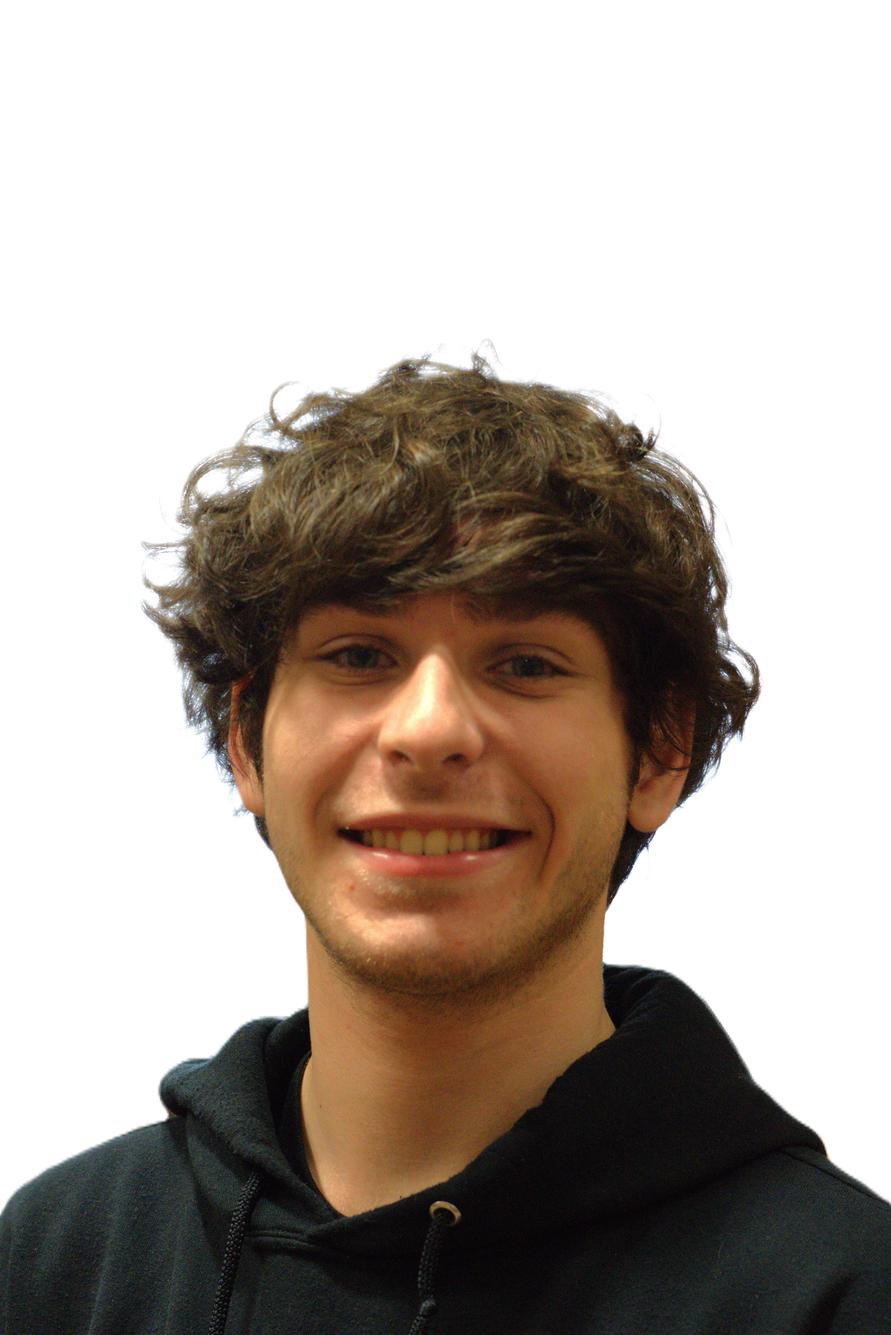
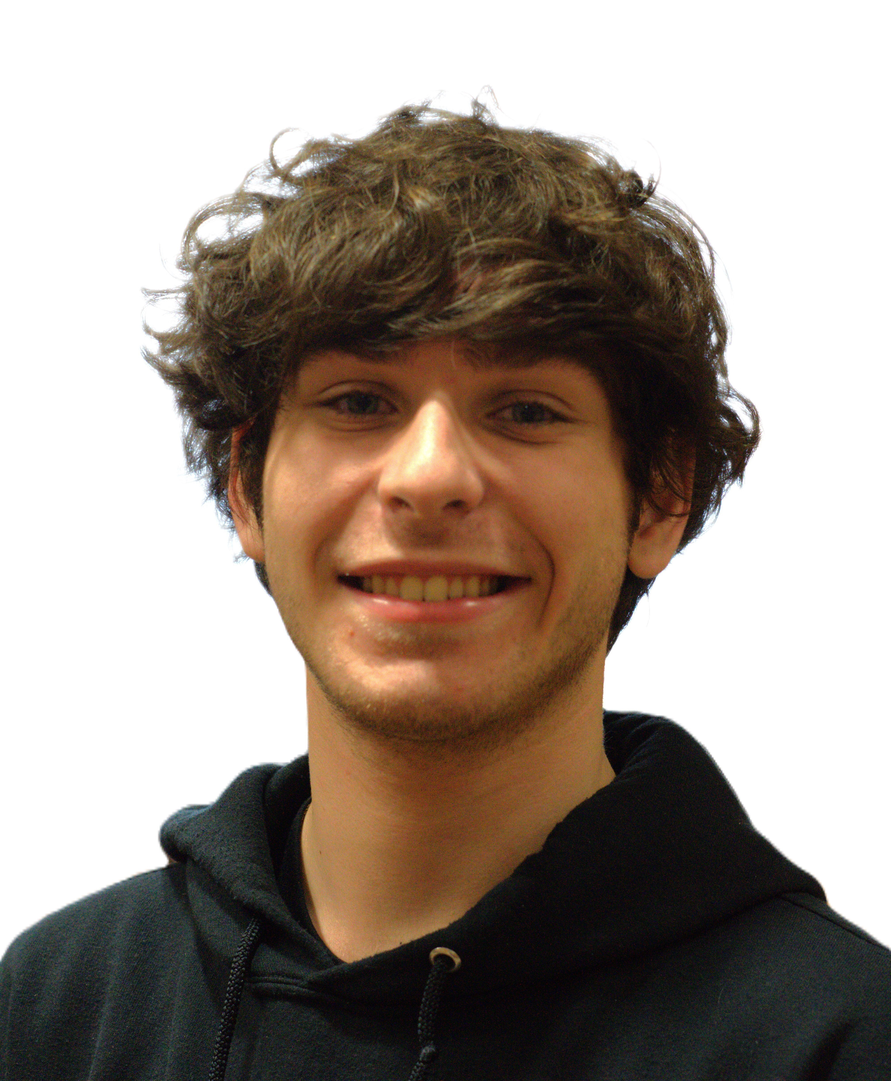
style: shrunk down cards and developer photos

diff --git a/apps/frontend/src/routes/AboutPage.tsx b/apps/frontend/src/routes/AboutPage.tsx
@@ -40,7 +40,7 @@ export default function AboutPage() {
               <img
                 src={"/Wong.jpg"}
                 alt="Wilson Wong"
-                className="w-[200px] h-[200px] mb-2 rounded-lg"
+                className="w-[300px] h-[300px] mb-2 rounded-lg"
               />
               <div className="h-8 flex-col justify-center items-center content-center text-center">
                 <p>Course Professor</p>
@@ -59,7 +59,7 @@ export default function AboutPage() {
               <img
                 src={"/Ian.jpg"}
                 alt="Ian Wright"
-                className="w-[200px] h-[200px] mb-2 rounded-lg"
+                className="w-[300px] h-[300px] mb-2 rounded-lg"
               />
               <div className="h-8 flex-col justify-center items-center content-center text-center">
                 <p>Team Coach</p>
@@ -69,11 +69,13 @@ export default function AboutPage() {
         </div>
       </div>
       <div className="flex flex-wrap justify-center gap-16 mb-6">
-        <div className="w-1/4">
+        <div className="w-[325px]">
           <Card className="h-full bg-slate-100 drop-shadow-md shadow-inner backdrop-blur-md flex-1 flex flex-col border-0">
             <CardHeader className="bg-[#9AC4FF] py-5 mb-8 rounded-t-lg">
               <CardTitle className="capitalize text-center">
-                Thomas Beattie (Ace)
+                <div className="h-8 flex-col justify-center items-center content-center text-center">
+                  <p>Thomas Beattie (Ace)</p>
+                </div>
               </CardTitle>
             </CardHeader>
             <CardContent className="flex-1 flex flex-col justify-center items-center gap-2">
@@ -84,11 +86,13 @@ export default function AboutPage() {
             </CardContent>
           </Card>
         </div>
-        <div className="w-1/4">
+        <div className="w-[325px]">
           <Card className="h-full bg-slate-100 drop-shadow-md shadow-inner backdrop-blur-md flex-1 flex flex-col border-0">
             <CardHeader className="bg-[#9AC4FF] py-5 mb-8 rounded-t-lg">
               <CardTitle className="capitalize text-center">
-                Matthew Franco
+                <div className="h-8 flex-col justify-center items-center content-center text-center">
+                  <p>Matthew Franco</p>
+                </div>
               </CardTitle>
             </CardHeader>
             <CardContent className="flex-1 flex flex-col justify-center items-center gap-2">
@@ -104,16 +108,18 @@ export default function AboutPage() {
             </CardContent>
           </Card>
         </div>
-        <div className="w-1/4">
+        <div className="w-[325px]">
           <Card className="h-full bg-slate-100 drop-shadow-md shadow-inner backdrop-blur-md flex-1 flex flex-col border-0">
             <CardHeader className="bg-[#9AC4FF] py-5 mb-8 rounded-t-lg">
               <CardTitle className="capitalize text-center">
-                Santiago Giraldo Godoy
+                <div className="h-8 flex-col justify-center items-center content-center text-center">
+                  <p>Santiago Giraldo Godoy</p>
+                </div>
               </CardTitle>
             </CardHeader>
             <CardContent className="flex-1 flex flex-col justify-center items-center gap-2">
               <img
-                src={"/Santiago.jpg"}
+                src={"/Santiago.png"}
                 alt="Santiago"
                 className="mb-2 rounded-lg"
               />
@@ -124,11 +130,13 @@ export default function AboutPage() {
             </CardContent>
           </Card>
         </div>
-        <div className="w-1/4">
+        <div className="w-[325px]">
           <Card className="h-full bg-slate-100 drop-shadow-md shadow-inner backdrop-blur-md flex-1 flex flex-col border-0">
             <CardHeader className="bg-[#9AC4FF] py-5 mb-8 rounded-t-lg">
               <CardTitle className="capitalize text-center">
-                Parker Glispin
+                <div className="h-8 flex-col justify-center items-center content-center text-center">
+                  <p>Parker Glispin</p>
+                </div>
               </CardTitle>
             </CardHeader>
             <CardContent className="flex-1 flex flex-col justify-center items-center gap-2">
@@ -144,11 +152,13 @@ export default function AboutPage() {
             </CardContent>
           </Card>
         </div>
-        <div className="w-1/4">
+        <div className="w-[325px]">
           <Card className="h-full bg-slate-100 drop-shadow-md shadow-inner backdrop-blur-md flex-1 flex flex-col border-0">
             <CardHeader className="bg-[#9AC4FF] py-5 mb-8 rounded-t-lg">
               <CardTitle className="capitalize text-center">
-                Michael Lin
+                <div className="h-8 flex-col justify-center items-center content-center text-center">
+                  <p>Michael Lin</p>
+                </div>
               </CardTitle>
             </CardHeader>
             <CardContent className="flex-1 flex flex-col justify-center items-center gap-2">
@@ -163,11 +173,13 @@ export default function AboutPage() {
             </CardContent>
           </Card>
         </div>
-        <div className="w-1/4">
+        <div className="w-[325px]">
           <Card className="h-full bg-slate-100 drop-shadow-md shadow-inner backdrop-blur-md flex-1 flex flex-col border-0">
             <CardHeader className="bg-[#9AC4FF] py-5 mb-8 rounded-t-lg">
               <CardTitle className="capitalize text-center">
-                Kevin McCrudden
+                <div className="h-8 flex-col justify-center items-center content-center text-center">
+                  <p>Kevin McCrudden</p>
+                </div>
               </CardTitle>
             </CardHeader>
             <CardContent className="flex-1 flex flex-col justify-center items-center gap-2">
@@ -179,11 +191,13 @@ export default function AboutPage() {
             </CardContent>
           </Card>
         </div>
-        <div className="w-1/4">
+        <div className="w-[325px]">
           <Card className="h-full bg-slate-100 drop-shadow-md shadow-inner backdrop-blur-md flex-1 flex flex-col border-0">
             <CardHeader className="bg-[#9AC4FF] py-5 mb-8 rounded-t-lg">
               <CardTitle className="capitalize text-center">
-                Keenan Porter
+                <div className="h-8 flex-col justify-center items-center content-center text-center">
+                  <p>Keenan Porter</p>
+                </div>
               </CardTitle>
             </CardHeader>
             <CardContent className="flex-1 flex flex-col justify-center items-center gap-2">
@@ -199,11 +213,13 @@ export default function AboutPage() {
             </CardContent>
           </Card>
         </div>
-        <div className="w-1/4">
+        <div className="w-[325px]">
           <Card className="h-full bg-slate-100 drop-shadow-md shadow-inner backdrop-blur-md flex-1 flex flex-col border-0">
             <CardHeader className="bg-[#9AC4FF] py-5 mb-8 rounded-t-lg">
               <CardTitle className="capitalize text-center">
-                Daniel Reynolds
+                <div className="h-8 flex-col justify-center items-center content-center text-center">
+                  <p>Daniel Reynolds</p>
+                </div>
               </CardTitle>
             </CardHeader>
             <CardContent className="flex-1 flex flex-col justify-center items-center gap-2">
@@ -218,11 +234,13 @@ export default function AboutPage() {
             </CardContent>
           </Card>
         </div>
-        <div className="w-1/4">
+        <div className="w-[325px]">
           <Card className="h-full bg-slate-100 drop-shadow-md shadow-inner backdrop-blur-md flex-1 flex flex-col border-0">
             <CardHeader className="bg-[#9AC4FF] py-5 mb-8 rounded-t-lg">
               <CardTitle className="capitalize text-center">
-                Cole Welcher
+                <div className="h-8 flex-col justify-center items-center content-center text-center">
+                  <p>Cole Welcher</p>
+                </div>
               </CardTitle>
             </CardHeader>
             <CardContent className="flex-1 flex flex-col justify-center items-center gap-2">
@@ -234,11 +252,13 @@ export default function AboutPage() {
             </CardContent>
           </Card>
         </div>
-        <div className="w-1/4">
+        <div className="w-[325px]">
           <Card className="h-full bg-slate-100 drop-shadow-md shadow-inner backdrop-blur-md flex-1 flex flex-col border-0">
             <CardHeader className="bg-[#9AC4FF] py-5 mb-8 rounded-t-lg">
               <CardTitle className="capitalize text-center">
-                Justin Yip
+                <div className="h-8 flex-col justify-center items-center content-center text-center">
+                  <p>Justin Yip</p>
+                </div>
               </CardTitle>
             </CardHeader>
             <CardContent className="flex-1 flex flex-col justify-center items-center gap-2">
